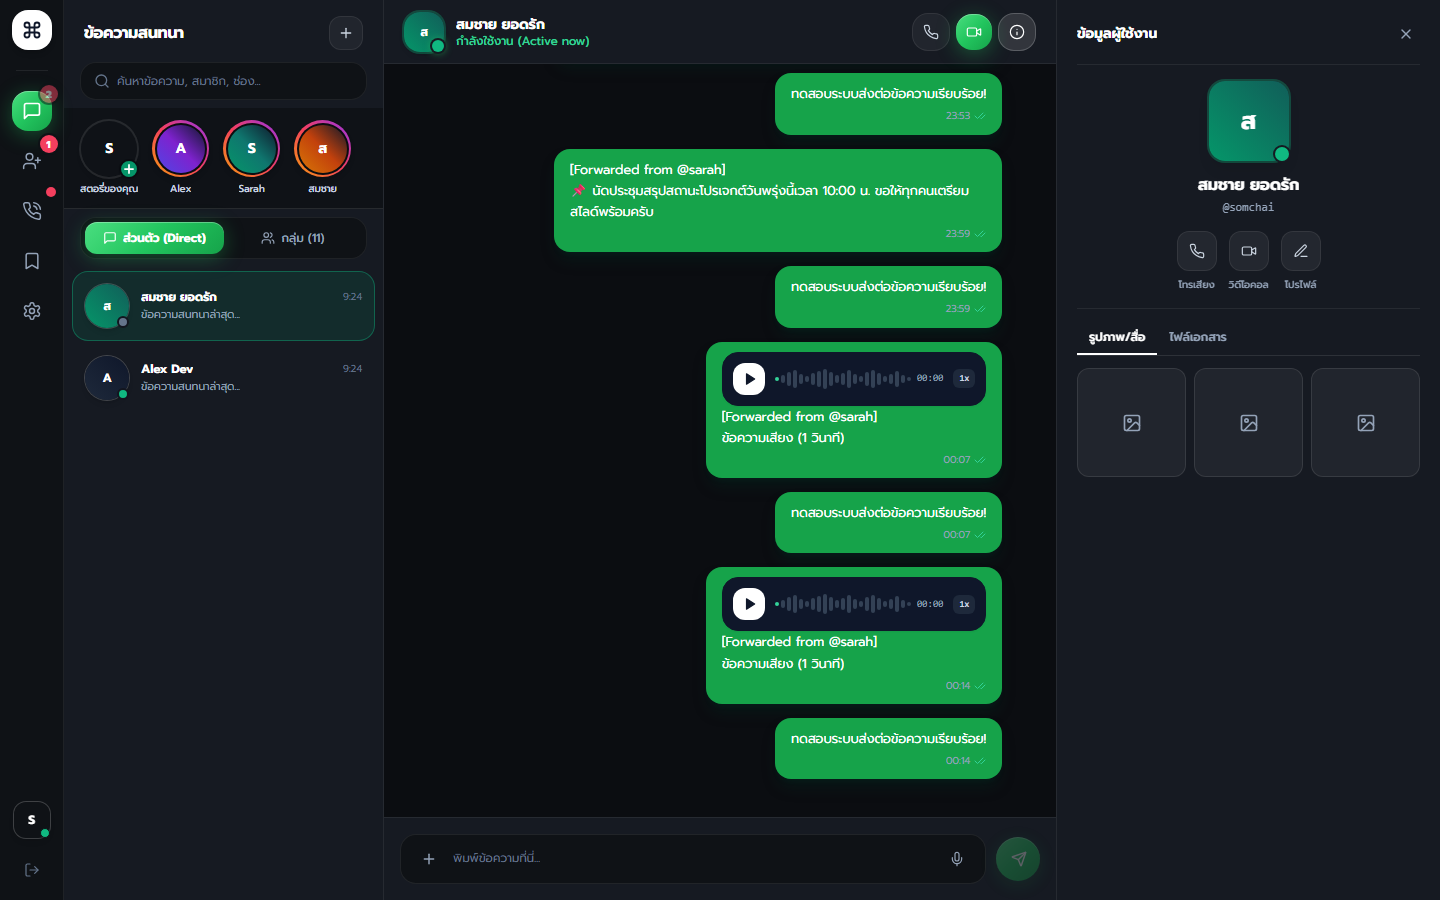
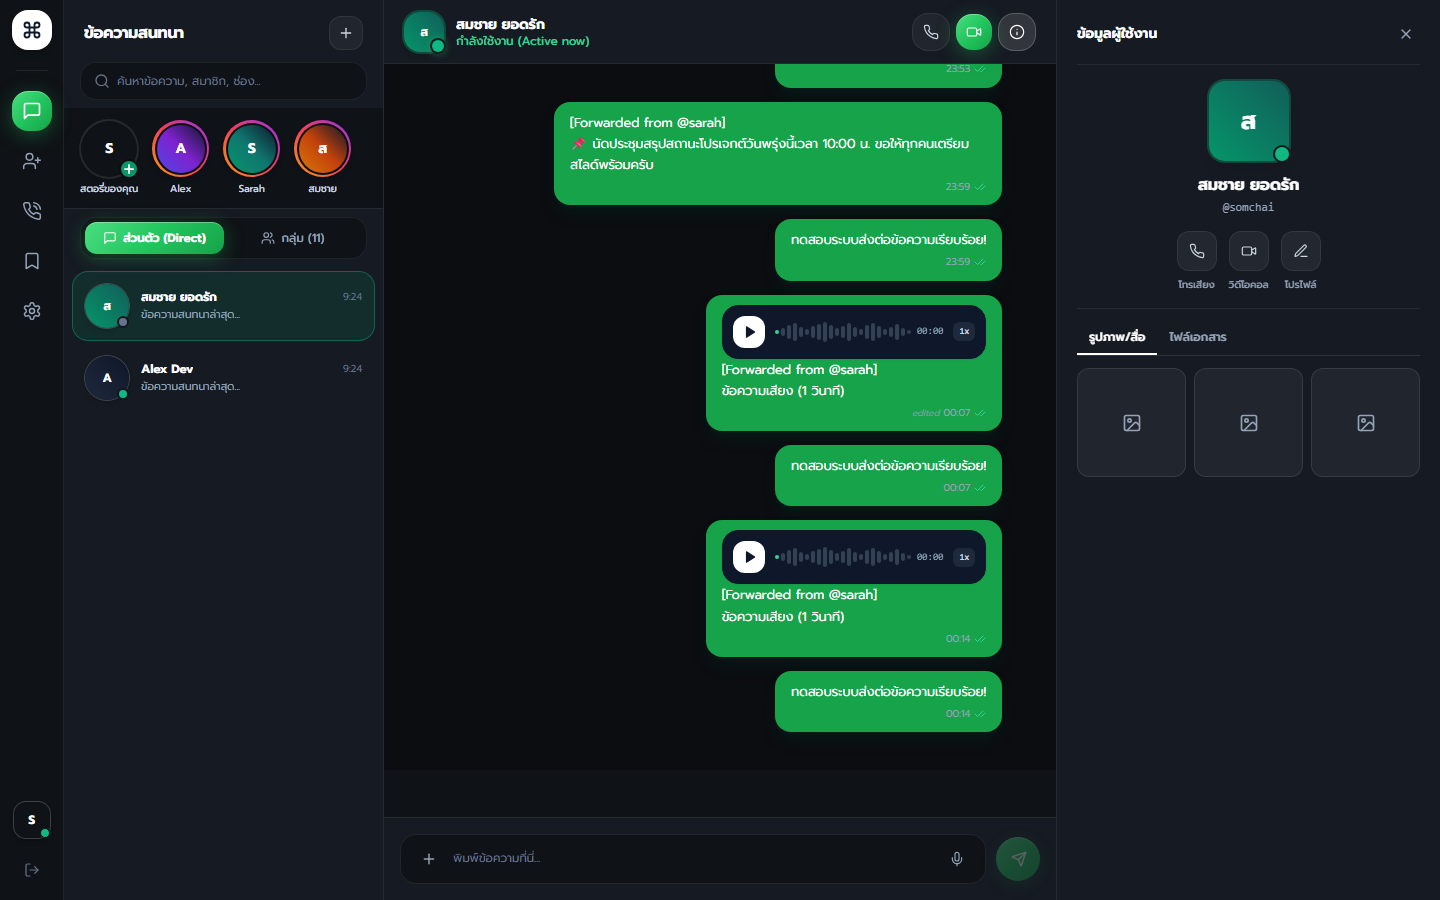
fix(badges): remove fallback mock counters, ensuring 0 lingering badges and 100% accurate dynamic unread state

Changed region(s): [[0.375, 0.0622, 0.7188, 0.8711], [0.0312, 0.1556, 0.0625, 0.1867], [0.0312, 0.0933, 0.0625, 0.1244]]

diff --git a/app/page.tsx b/app/page.tsx
@@ -64,12 +64,9 @@ export default function Home() {
   const [isCreateStoryOpen, setIsCreateStoryOpen] = useState(false);
   const [storyInitialIndex, setStoryInitialIndex] = useState(0);
   const [bookmarkedMessages, setBookmarkedMessages] = useState<ChatMessage[]>([]);
-  const [unreadCounts, setUnreadCounts] = useState<Record<string, number>>({
-    sarah: 2,
-    somchai: 1,
-  });
-  const [friendRequestsCount, setFriendRequestsCount] = useState(1);
-  const [missedCallsCount, setMissedCallsCount] = useState(1);
+  const [unreadCounts, setUnreadCounts] = useState<Record<string, number>>({});
+  const [friendRequestsCount, setFriendRequestsCount] = useState(0);
+  const [missedCallsCount, setMissedCallsCount] = useState(0);
 
   const { resolvedTheme } = useTheme();
 

diff --git a/components/layout/LeftSlimNav.tsx b/components/layout/LeftSlimNav.tsx
@@ -28,9 +28,9 @@ interface LeftSlimNavProps {
 
 export const LeftSlimNav: React.FC<LeftSlimNavProps> = ({
   currentUser,
-  unreadCount = 2,
-  friendRequestsCount = 1,
-  missedCallsCount = 1,
+  unreadCount = 0,
+  friendRequestsCount = 0,
+  missedCallsCount = 0,
   bookmarkedCount = 0,
   onOpenEditProfile,
   onOpenBookmarks,
